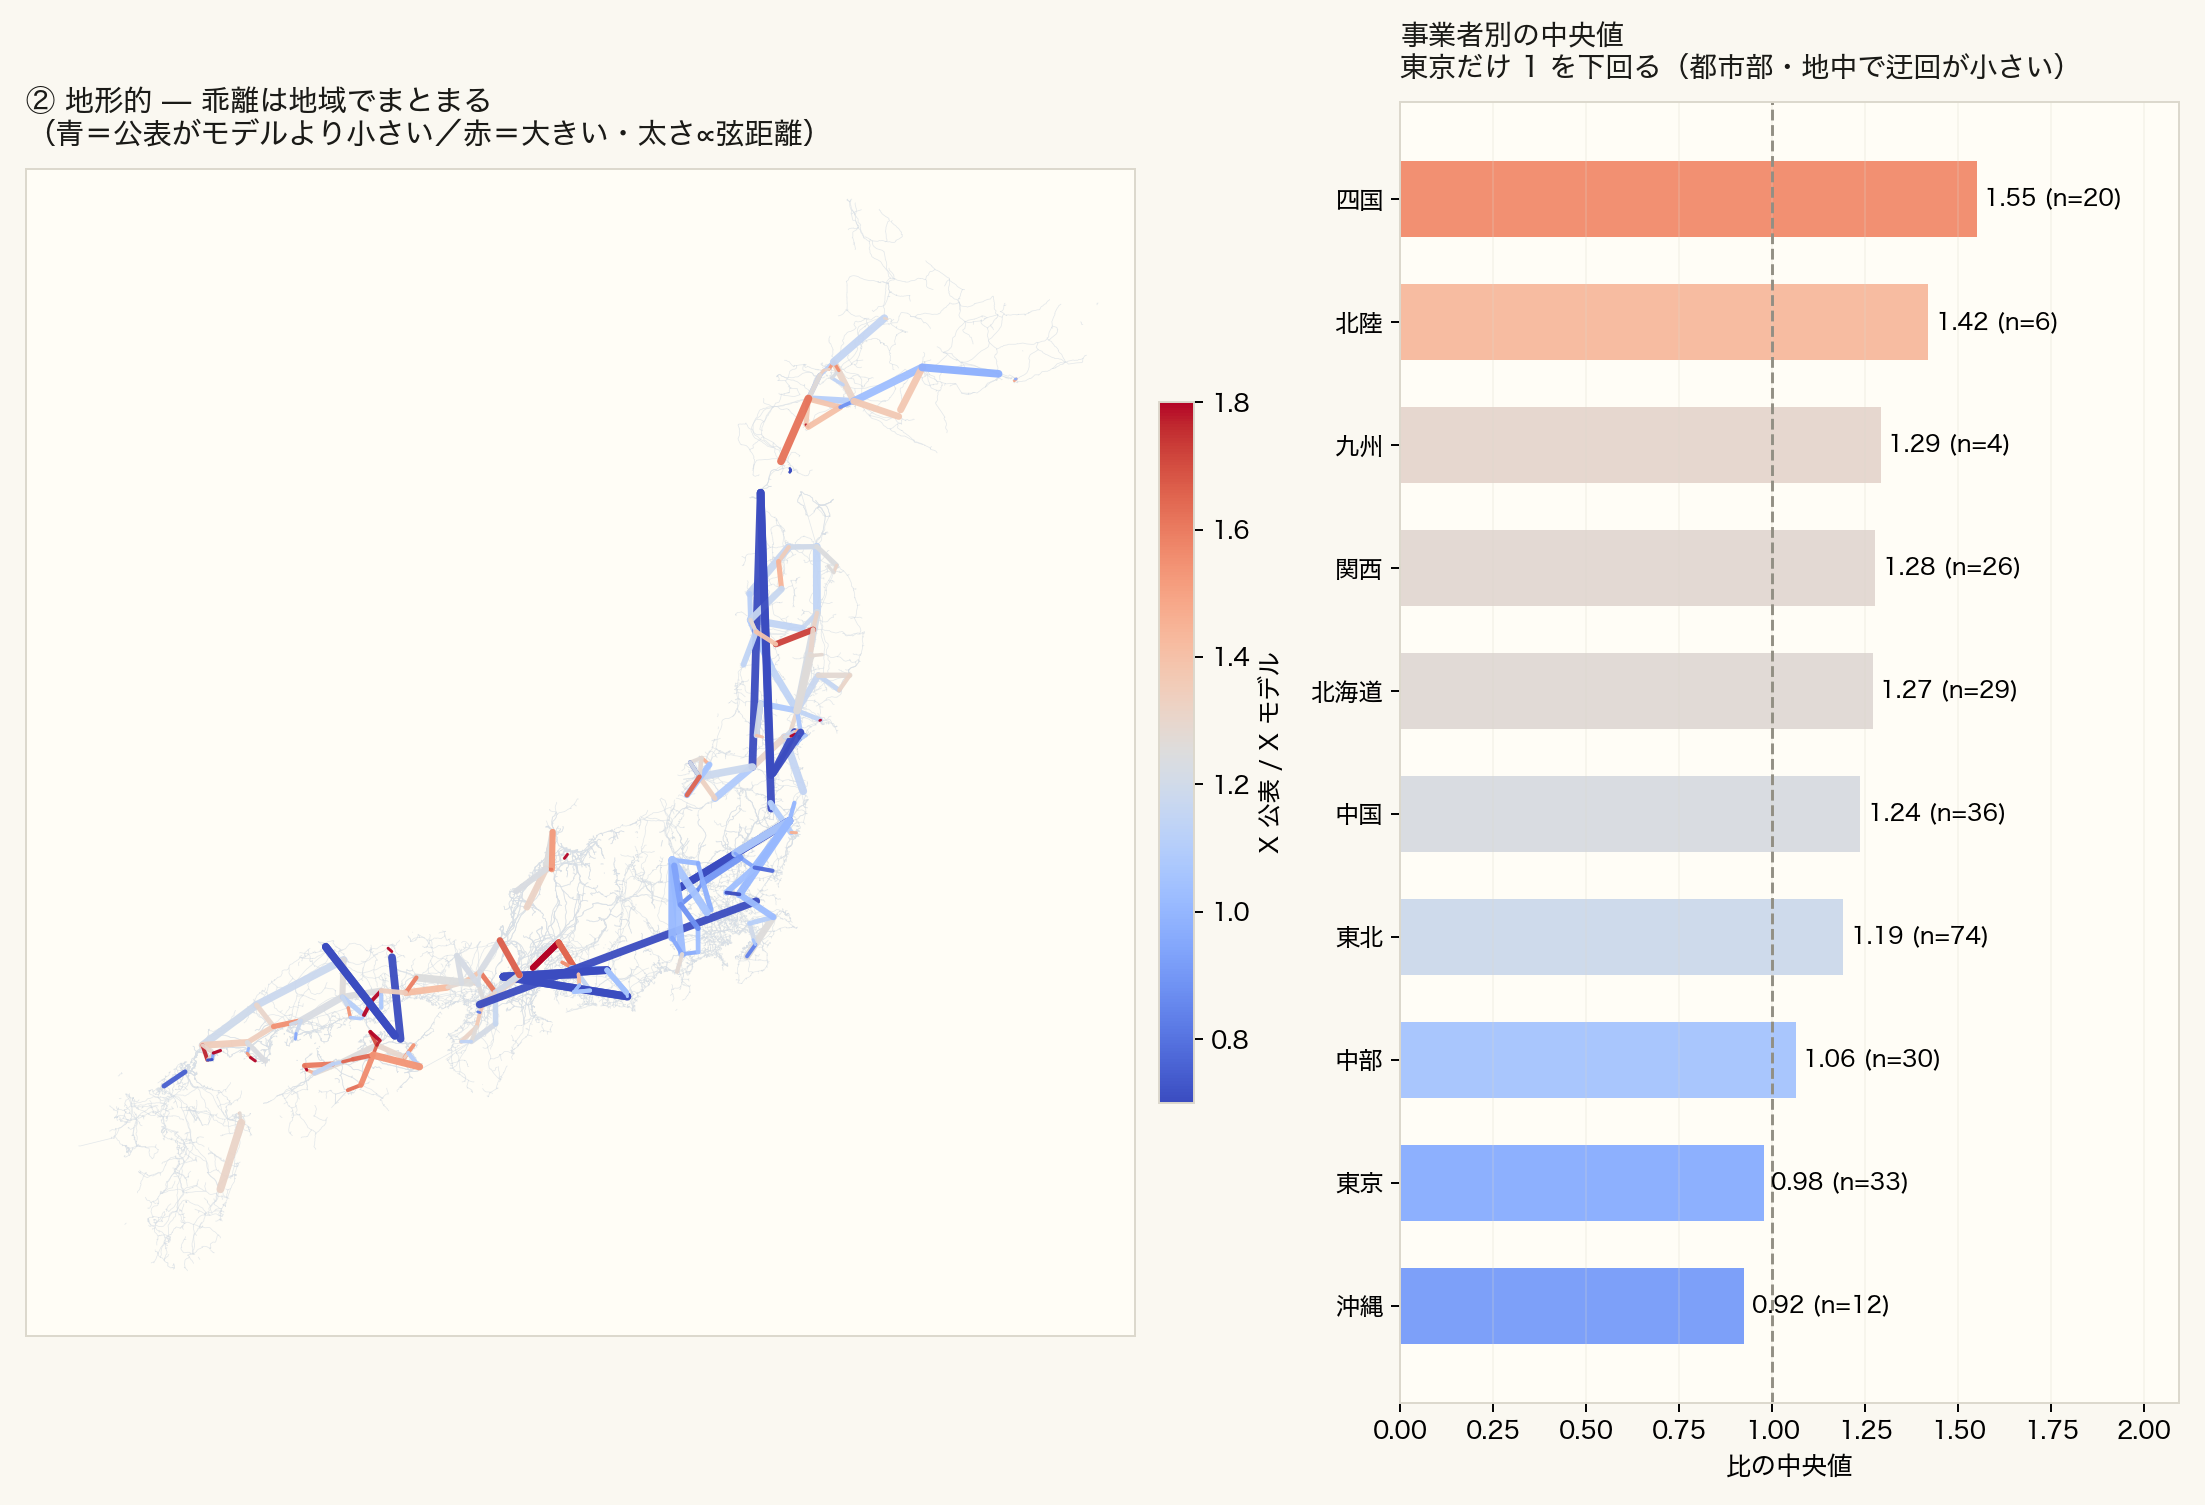
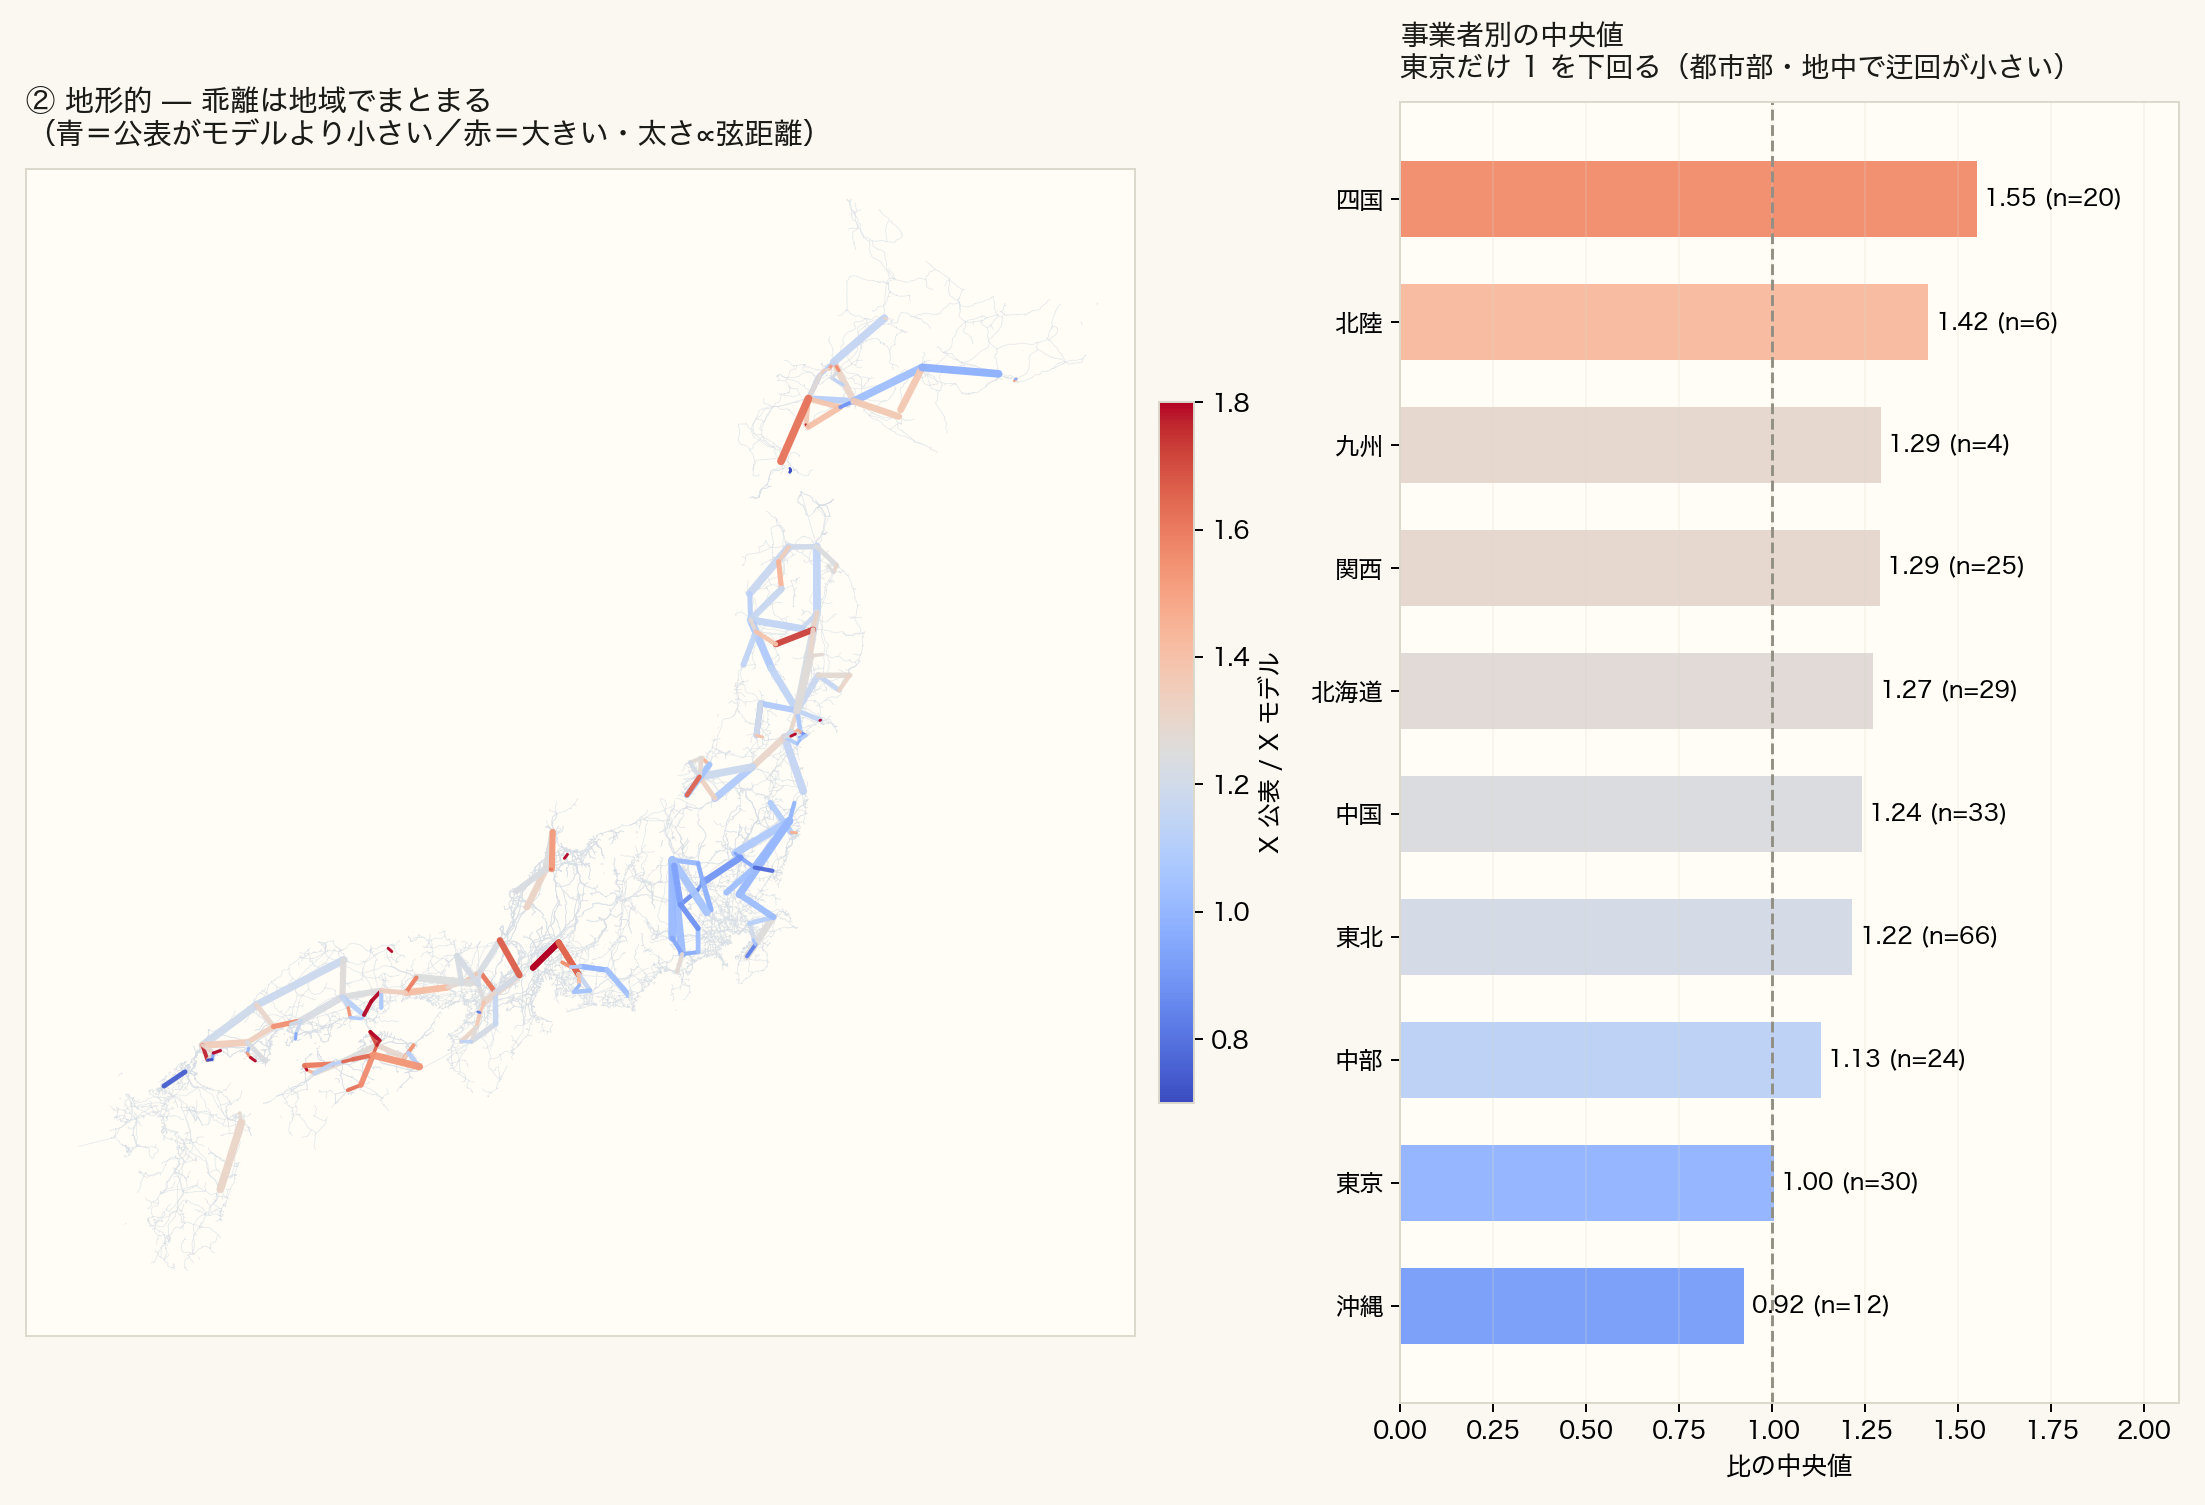
fix(compare): 同名異所の誤マッチを物理チェックで除去 — 270→249本・中央値1.202→1.228
オーナー指摘「直線ひどいのがさらに出てきた。画像見てみるといい」。
地図を見ると東北を縦断する濃紺(比0.1前後)の長大直線などが現れていた。
前コミットで ANON_RX を緩めて母集団を増やしたぶん、同名異所の誤マッチも
増えており、「評価270本・Ybus 1.37%」は誤マッチ込みの過大報告だった。

追加した物理チェック2種:
- SPAN_LIMIT_KM: 電圧階級として現実的な亘長の上限。7本棄却
  (阿武隈幹線466km / 高津線438km / 西福島線417km / 吾妻幹線405km ほか)
- RATIO_FLOOR=0.5: 実線長>=弦距離 なので線種が合えば比>=1 が原則。
  比が0.5を割るのは幾何的に説明できない。14本棄却
  (仙台泉線0.06 / 豊根連絡0.09 / 福島東幹線(山)0.17 ほか)
  ※地中線は除外(架空線の標準値で比べると下がるのは線種違い)

棄却分の match_level は contains/contains・contains/national に偏っており、
弱い照合が誤マッチ源であることを裏付け(#47の改善項目)。

最終: 評価109→249本(2.3倍) / Ybus 0.55%→1.26% / 中央値 1.241→1.228。
誤マッチは比を押し下げていた。地図に描いて初めて見えた欠陥で、
「カバレッジを増やす変更は必ず地図で確認する」を教訓として記録。

Claude-Session: https://claude.ai/code/session_01A6WfiVhLEWRwsLrJygBhhX

diff --git a/scripts/compare_observed_derived_impedance.py b/scripts/compare_observed_derived_impedance.py
@@ -53,6 +53,29 @@ def nearest_class(kv: float, classes: list[int]) -> int:
     return min(classes, key=lambda c: abs(c - kv))
 
 
+# 同名異所の誤マッチ除去（2026-08-19）。
+# 名前が exact 一致でも、同名の変電所が全国に複数あると別地点に解決される。
+# 実測で東北 275kV に弦距離 466km、関西 154kV に 438km の「線」が現れた。
+# 1 回線の亘長として物理的にありえない対応付けを電圧階級ごとに棄却する。
+# 値は「その電圧階級の基幹線として現実的な上限」で、厳密な根拠のある定数ではない
+# ため、棄却した本数と内訳を必ず表示する（黙って捨てない）。
+SPAN_LIMIT_KM = {66: 50, 77: 50, 110: 100, 132: 100, 154: 100,
+                 187: 150, 220: 150, 275: 250, 500: 400}
+
+
+# 地中ケーブルは架空線より x が 1/3〜1/5 なので、架空線の標準値で比べると
+# 比が 0.3 前後になる。誤マッチではなく線種違いなので分けて数える。
+CABLE_RX = re.compile(r"地中|ケーブル|洞道|C\.?V")
+# 幾何の矛盾チェック: 実線長 >= 弦距離 なので、線種が合っていれば比 >= 1 が原則。
+# 比が 0.5 を割るのは「モデルの弦距離が実線長の 2 倍以上」を意味し、
+# 幾何的に説明できない ＝ 同名異所の誤マッチとみなす（地中線は除く）。
+RATIO_FLOOR = 0.5
+
+
+def span_limit(kv: float) -> float:
+    return SPAN_LIMIT_KM.get(int(kv), 300)
+
+
 def main() -> int:
     cw = pd.read_csv(NORM / "crosswalk_impedance_to_model.csv")
     lt = yaml.safe_load(LINE_TYPES.read_text(encoding="utf-8"))
@@ -75,7 +98,30 @@ def main() -> int:
     d["L_implied_km"] = d.X_ohm_obs / d.x_std
     d["X_derived_pct"] = 100 * (d.x_std * d.L_straight_km) * 1000 / d.voltage_kv**2
 
+    d["span_limit_km"] = d.voltage_kv.map(span_limit)
+    over = d[d.L_straight_km > d.span_limit_km]
+    if len(over):
+        print(f"⚠ 同名異所の疑いで棄却 {len(over)} 本（弦距離が電圧階級の上限超え）:")
+        print(over[["utility", "voltage_kv", "line_name", "L_straight_km",
+                    "match_level"]].sort_values("L_straight_km", ascending=False)
+              .head(12).to_string(index=False))
+        print()
+    d = d[d.L_straight_km <= d.span_limit_km]
+
     v = d[(d.L_straight_km > 0.5) & (d.X_pct > 0)].copy()
+    v["x_ratio_pre"] = v.X_pct / v.X_derived_pct
+    v["is_cable"] = v.line_name.astype(str).str.contains(CABLE_RX)
+    susp = v[(v.x_ratio_pre < RATIO_FLOOR) & (~v.is_cable)]
+    if len(susp):
+        print(f"⚠ 幾何矛盾で棄却 {len(susp)} 本（比<{RATIO_FLOOR}＝弦距離が実線長の2倍超・地中線を除く）:")
+        print(susp[["utility", "voltage_kv", "line_name", "L_straight_km",
+                    "x_ratio_pre", "match_level"]].sort_values("x_ratio_pre")
+              .head(12).round(2).to_string(index=False))
+        print()
+    n_cable = int(v.is_cable.sum())
+    if n_cable:
+        print(f"※ 地中線 {n_cable} 本は線種が違う（架空線の標準値で比べると比が下がる）ため別掲\n")
+    v = v[(v.x_ratio_pre >= RATIO_FLOOR) | (v.is_cable)].copy()
     v["detour"] = v.L_implied_km / v.L_straight_km
     v["x_ratio"] = v.X_pct / v.X_derived_pct
 
